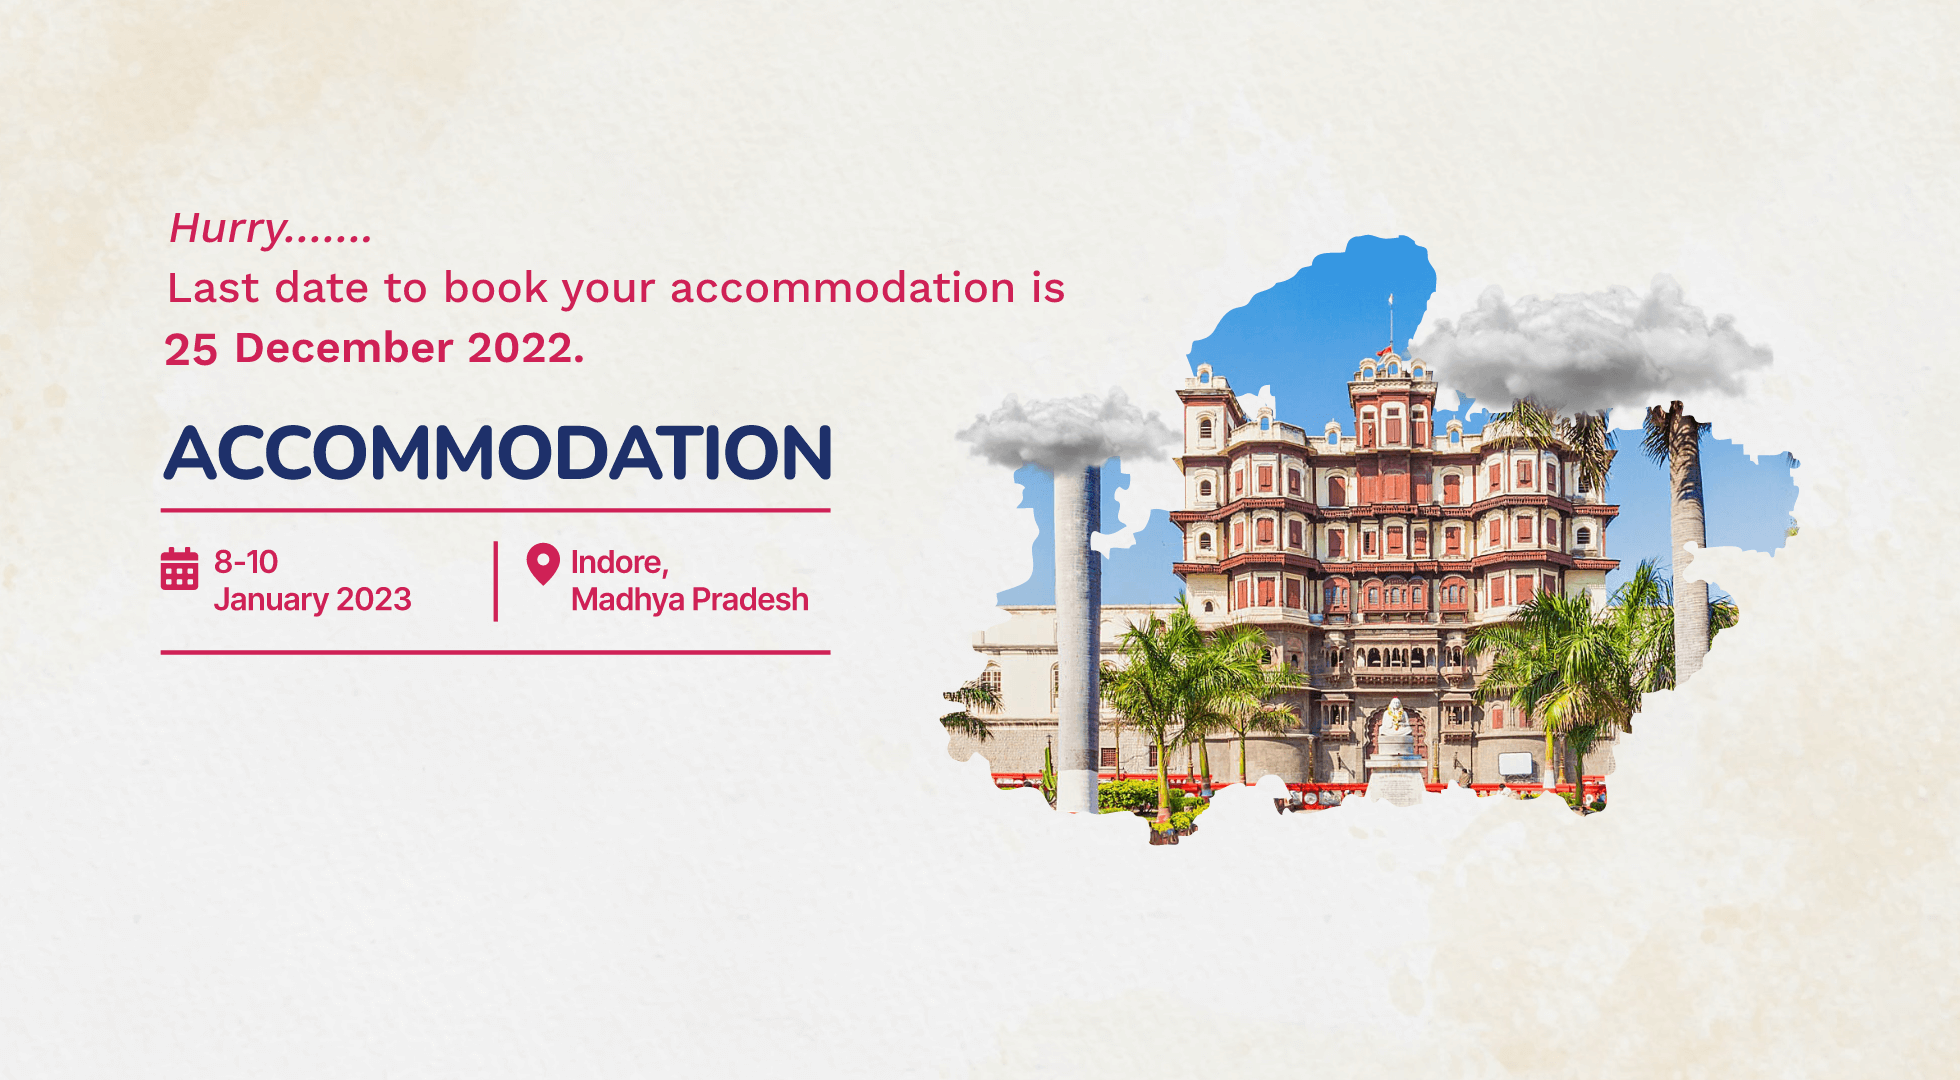
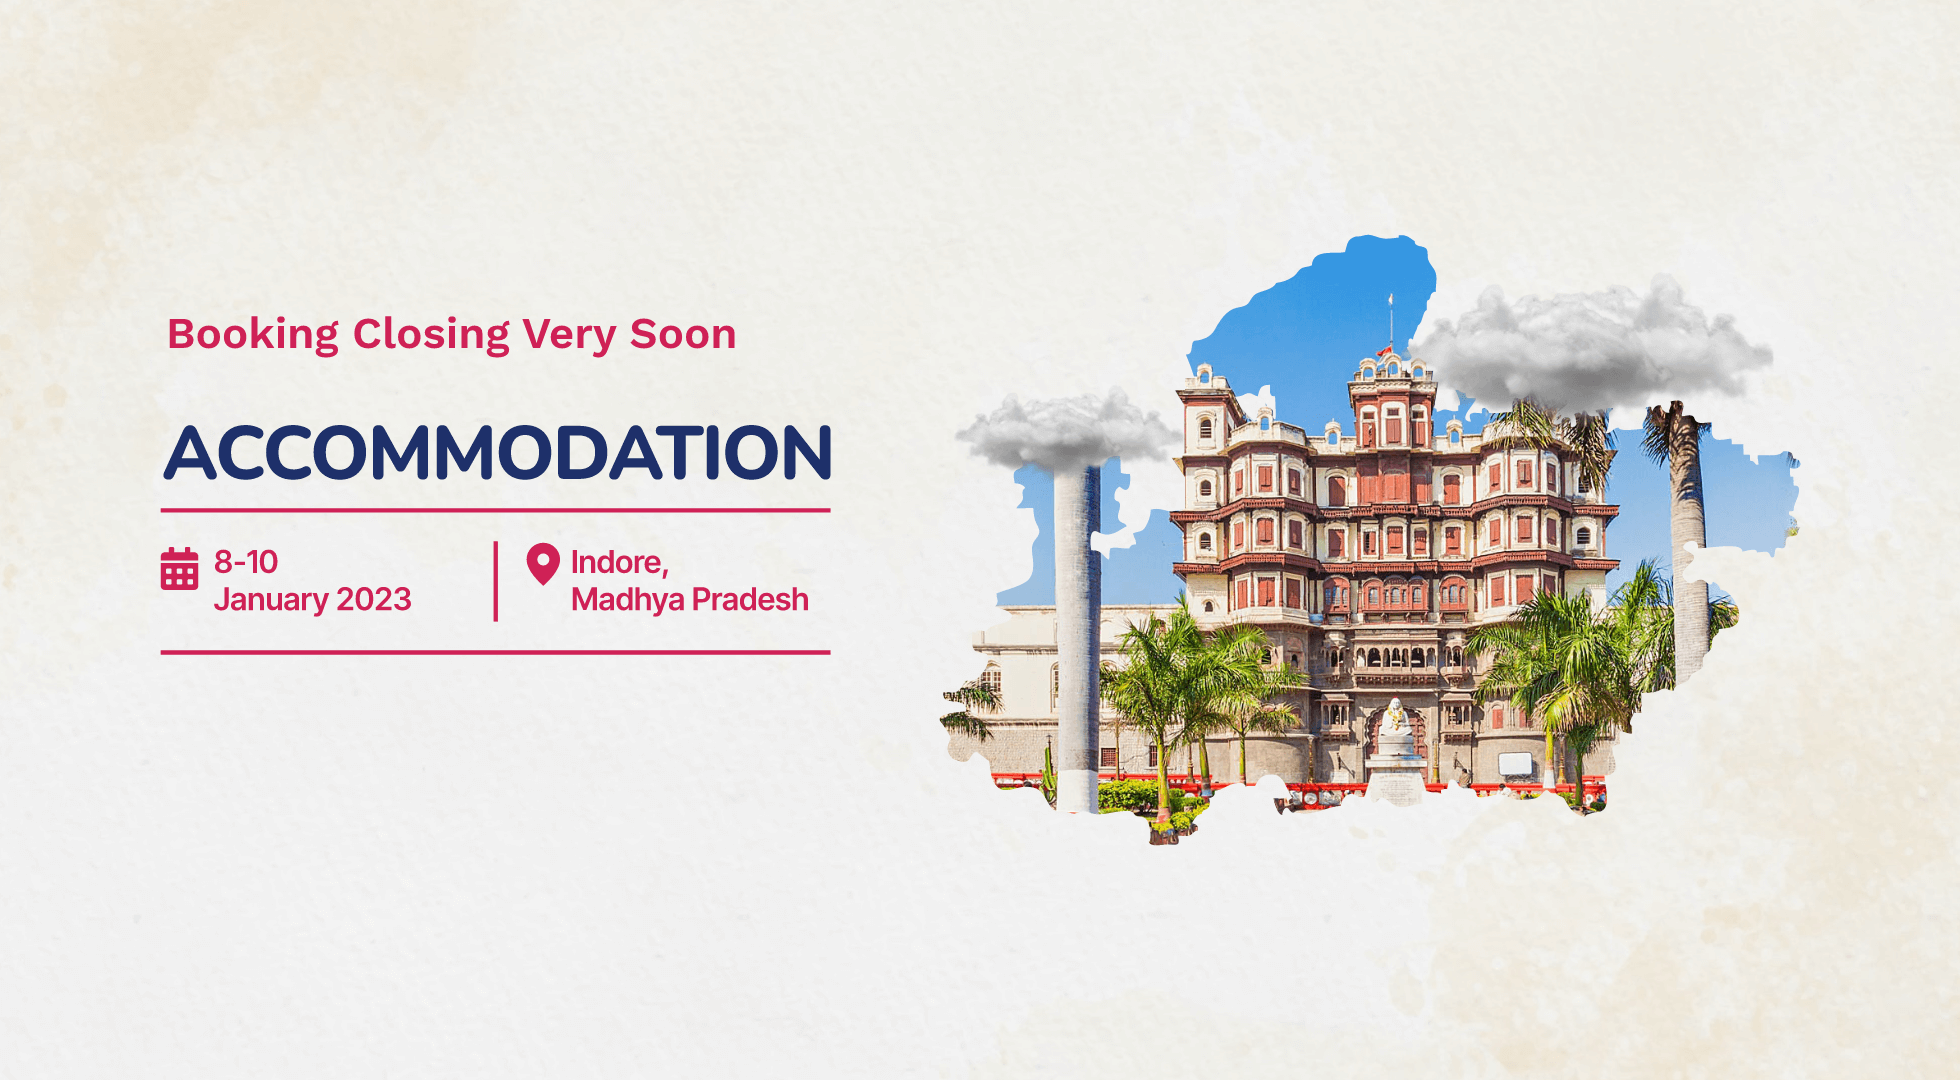
Changes

Changed region(s): [[0.0622, 0.1833, 0.5602, 0.3361]]

diff --git a/public/css/frontend.css b/public/css/frontend.css
@@ -227,7 +227,7 @@ body a:hover {
   font-weight: 500;
   letter-spacing: 0px;
   color: var(--secondary-color);
-  margin-bottom: 7px;
+  margin-bottom: 15px;
 }
 .login-modal-wrap .login-modal .login-modal-header .login-modal-gif{
   max-width: 270px;
@@ -528,6 +528,28 @@ header.header {
   width: 100%;
   max-width: 1960px;
   height: 100%;
+}
+.banner-book-now{
+  position: absolute;
+  bottom: 13%;
+  left: 50%;
+  transform: translateX(-50%);
+  text-align: center;
+  background-color: #FFF;
+  padding: 13px 20px;
+  border-radius: 10px;
+  box-shadow: 0 0 10px 0 rgb(0 0 0 / 10%);
+  display: flex;
+  align-items: center;
+  gap: 13px;
+  width: calc(100% - 20px);
+  max-width: 520px;
+}
+.banner-book-now p{
+  color: var(--secondary-color) !important;
+  font-size: 19px !important;
+  font-weight: 600;
+  margin-bottom: 0 !important;
 }
 
 .page-header {

diff --git a/resources/views/frontend/layouts/app.blade.php b/resources/views/frontend/layouts/app.blade.php
@@ -90,7 +90,7 @@
                         <a href="{{ url('/mahakal-lok-darshan') }}">Mahakal Lok Darshan</a>
                     </li>
                     <li>
-                        <a href="{{ url('/free-home-stay') }}">Home Stay Registration</a>
+                        <a href="{{ url('/free-home-stay') }}" style="color: yellow;">Book FREE Home Stay</a>
                     </li>
                     <li>
                         <a href="{{ url('/my-bookings') }}">My Bookings</a>
@@ -121,8 +121,8 @@
                     </div>
                     <div class="login-modal-right">
                         <div class="login-modal-header">
-                            <h3 class="login-modal-heading1"><i>Hurry…….</i> Last date to book your accommodation is 25 December 2022.</h3>
-                            <div class="login-modal-gif"><img src="{{ url('images/booking-closing-very-soon.gif') }}" alt="Booking Closing Very Soon" /></div>
+                            <h3 class="login-modal-heading1">Booking Closing Very Soon</h3>
+                            <!-- <div class="login-modal-gif"><img src="{{ url('images/booking-closing-very-soon.gif') }}" alt="Booking Closing Very Soon" /></div> -->
                             <h2 class="login-modal-heading">Login account</h2>
                         </div>
                         {!! NoCaptcha::renderJs() !!}

diff --git a/Modules/Frontend/Resources/views/index.blade.php b/Modules/Frontend/Resources/views/index.blade.php
@@ -6,7 +6,11 @@
         <img src="{{ url('images/PBD2023-slider_new.png') }}" alt="PBD2023-slider" class="m-hide" />
         <img src="{{ url('images/mobile-slider-2_new.png') }}" alt="mobile-slider-2" class="d-hide" />
 
-        <img src="{{ url('images/big-booking-closing-very-soon.gif') }}" alt="Booking Closing Very Soon" class="very-soon-gif m-hide" />
+        <!-- <img src="{{ url('images/big-booking-closing-very-soon.gif') }}" alt="Booking Closing Very Soon" class="very-soon-gif m-hide" /> -->
+        <div class="banner-book-now">
+            <p>MP Government Offers FREE Home Stay</p>
+            <a href="{{ url('/search') }}" class="primary-button sm">Book Now</a>
+        </div>
     </div>
     <div class="booking-form-wrap booking-form-wrap-home desktop">
         <form action="{{ url('/search') }}" method="post"
